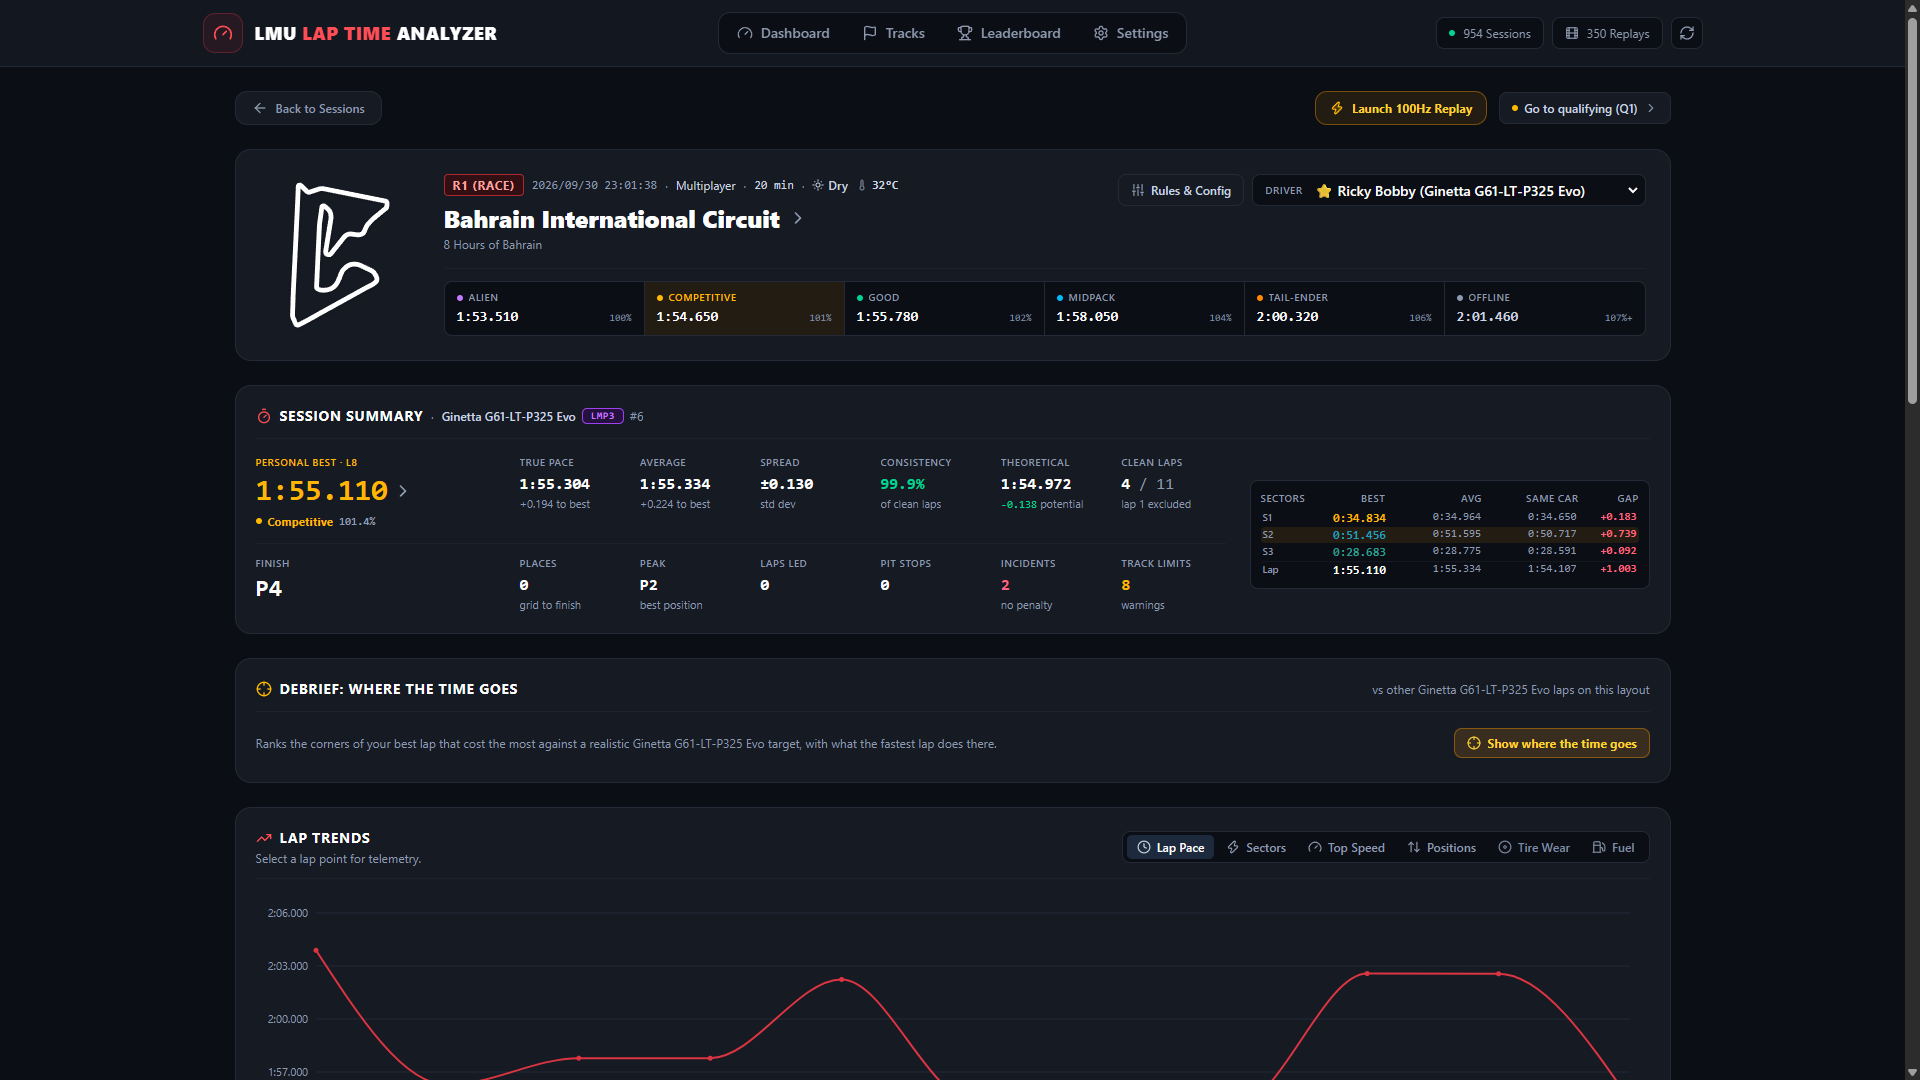
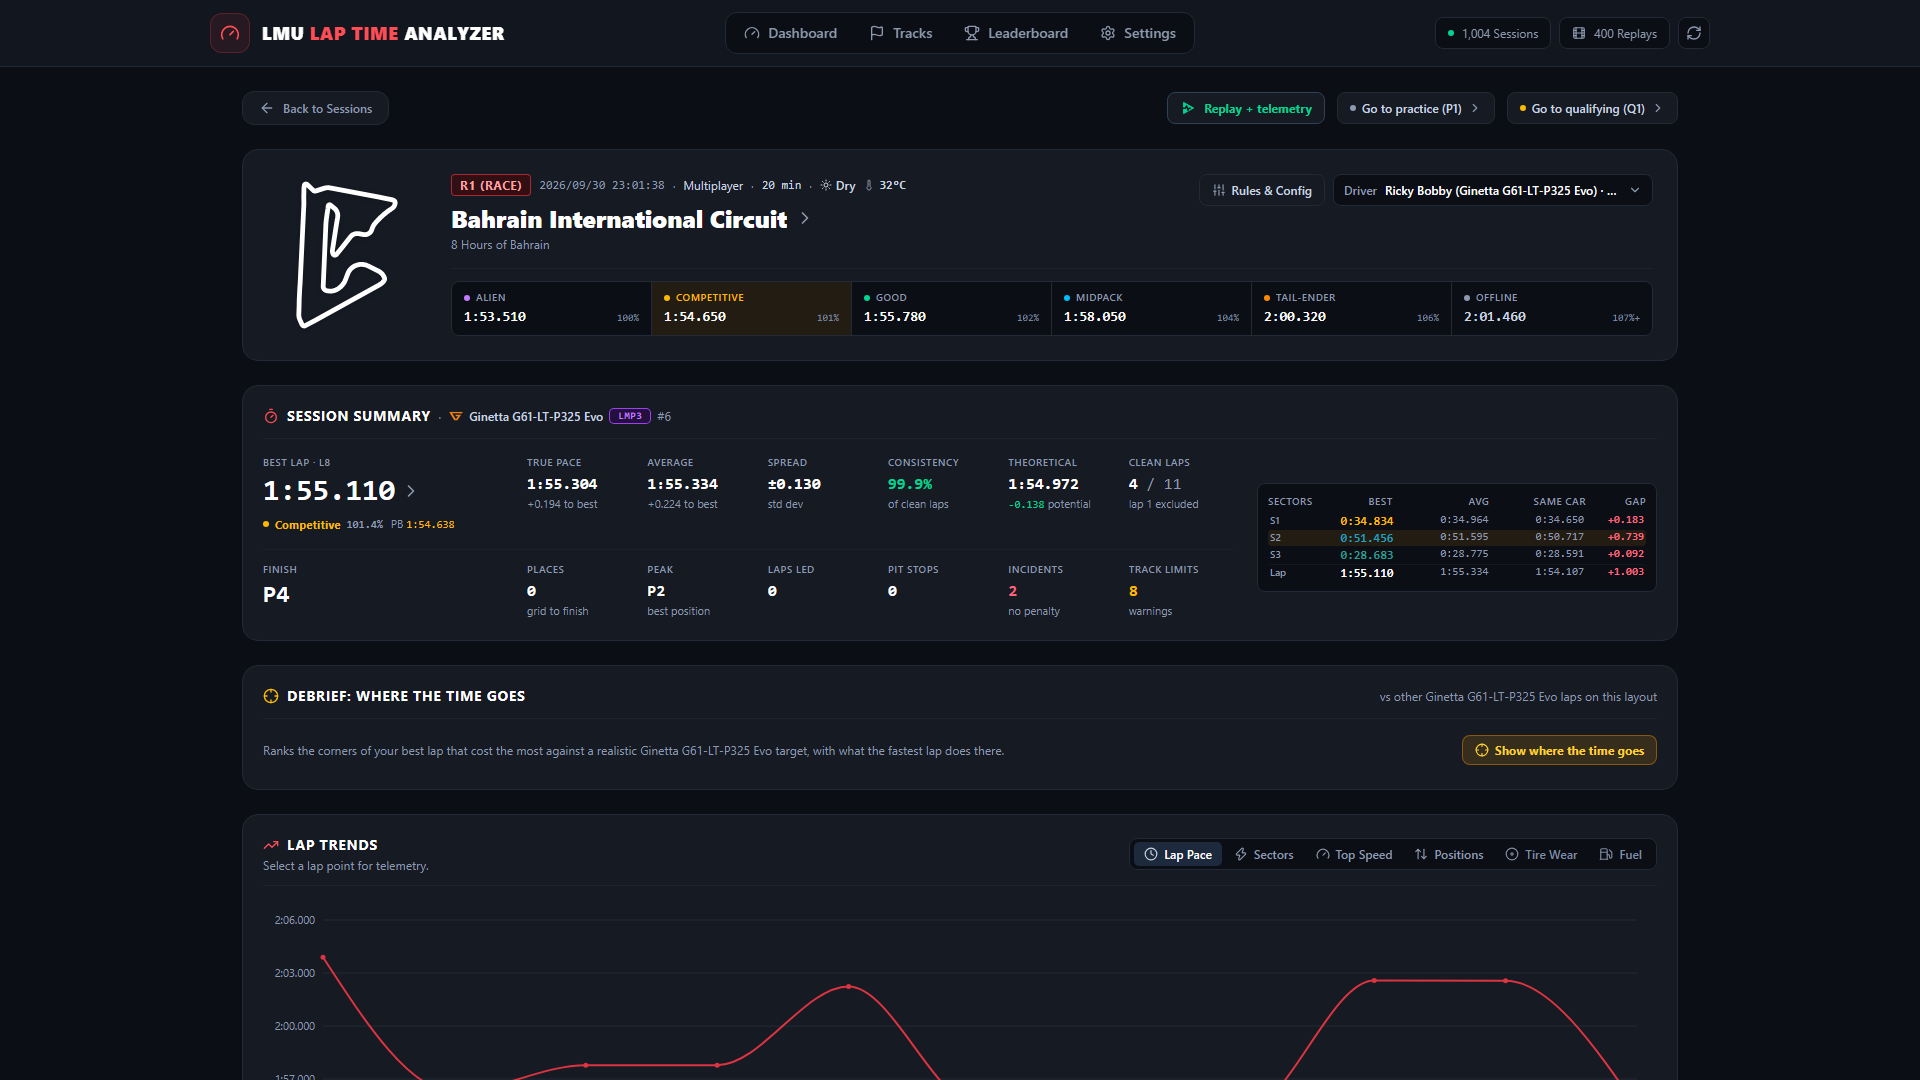
docs(readme): add fullscreen gps map previews and refresh screenshots

diff --git a/tools/captureScreenshots.ts b/tools/captureScreenshots.ts
@@ -36,18 +36,120 @@ interface TargetScreenshot {
   url: string;
   outputPath: string;
   waitMs?: number;
+  evalBeforeNavigate?: string;
   evalBeforeCapture?: string;
 }
 
 const TARGETS: TargetScreenshot[] = [
   {
     name: 'Telemetry Studio (Bahrain LMP3 Competitive Dry Lap)',
-    url: 'http://localhost:5173/?demo=1#/telemetry?replayName=Bahrain%20International%20Circuit%20R1%2012.Vcr&lap=8&driverName=Ricky%20Bobby',
+    url: 'http://localhost:5173/?demo=1#/telemetry?sessionId=2026_09_30_23_37_59-24R1&driverOrdinal=1&lapOrdinal=7&baselineSessionId=2026_09_30_23_37_59-24R1&baselineDriverOrdinal=0&baselineLapOrdinal=10',
     outputPath: path.join(process.cwd(), 'assets', 'telemetry_studio.png'),
-    waitMs: 5000,
+    waitMs: 6000,
     evalBeforeCapture: `
       const toastBtn = document.querySelector('button[aria-label="Dismiss toast"], button[aria-label="Close"]');
       if (toastBtn) toastBtn.click();
+    `,
+  },
+  {
+    name: 'Fullscreen GPS Map (Bahrain 2x & Telemetry Dock)',
+    url: 'http://localhost:5173/?demo=1#/telemetry?sessionId=2026_09_30_23_37_59-24R1&driverOrdinal=1&lapOrdinal=7&baselineSessionId=2026_09_30_23_37_59-24R1&baselineDriverOrdinal=0&baselineLapOrdinal=10',
+    outputPath: path.join(process.cwd(), 'assets', 'fullscreen_gps_map.png'),
+    waitMs: 6000,
+    evalBeforeNavigate: `
+      try {
+        localStorage.setItem('lmu-map-layers-v1', JSON.stringify({
+          road: true, kerb: true, brakeMarkers: true,
+          brakeDistance: true, brakeAds: true, brakeDigi: true,
+          pit: false, centerline: false, runoff: false, otherRoad: false,
+          apron: false, gravel: false, grass: false,
+          sectors: true, turns: true, startFinish: true,
+        }));
+      } catch (e) {}
+    `,
+    evalBeforeCapture: `
+      const toastBtn = document.querySelector('button[aria-label="Dismiss toast"], button[aria-label="Close"]');
+      if (toastBtn) toastBtn.click();
+
+      // Open layers and ensure Braking markers, distance, ads, and digi are active
+      const layersBtn = document.querySelector('button[aria-label="Layers"]');
+      if (layersBtn) layersBtn.click();
+      const labels = Array.from(document.querySelectorAll('label'));
+      const brakeLabel = labels.find(l => l.textContent && l.textContent.includes('Braking markers'));
+      const brakeInput = brakeLabel ? brakeLabel.querySelector('input') : null;
+      if (brakeInput && !brakeInput.checked) brakeInput.click();
+      const adsLabel = labels.find(l => l.textContent && l.textContent.includes('Sponsor ads'));
+      const adsInput = adsLabel ? adsLabel.querySelector('input') : null;
+      if (adsInput && !adsInput.checked) adsInput.click();
+      const digiLabel = labels.find(l => l.textContent && l.textContent.includes('Digi boards'));
+      const digiInput = digiLabel ? digiLabel.querySelector('input') : null;
+      if (digiInput && !digiInput.checked) digiInput.click();
+      if (layersBtn) layersBtn.click();
+
+      // Zoom out 3 steps from default 6.0x -> 4.5 -> 3.0 -> 2.0x
+      const zoomOutBtn = document.querySelector('button[aria-label="Zoom out"]');
+      for (let i = 0; i < 3; i++) {
+        if (zoomOutBtn) zoomOutBtn.click();
+      }
+
+      const fsBtn = document.querySelector('button[aria-label="Full screen map"]');
+      if (fsBtn) fsBtn.click();
+    `,
+  },
+  {
+    name: 'Fullscreen GPS Map (Portimão Layout 0.6x Centered, Pit & Runoff)',
+    url: 'http://localhost:5173/?demo=1#/telemetry?sessionId=2026_09_23_15_49_06-37R1&driverOrdinal=11&lapOrdinal=3&baselineSessionId=2026_09_23_15_49_06-37R1&baselineDriverOrdinal=7&baselineLapOrdinal=7',
+    outputPath: path.join(process.cwd(), 'assets', 'fullscreen_gps_map_portimao.png'),
+    waitMs: 6000,
+    evalBeforeNavigate: `
+      try {
+        localStorage.setItem('lmu-map-layers-v1', JSON.stringify({
+          road: true, kerb: true, brakeMarkers: true,
+          brakeDistance: true, brakeAds: true, brakeDigi: true,
+          pit: true, centerline: false, runoff: true, otherRoad: true,
+          apron: true, gravel: true, grass: true,
+          sectors: true, turns: true, startFinish: true,
+        }));
+      } catch (e) {}
+    `,
+    evalBeforeCapture: `
+      const toastBtn = document.querySelector('button[aria-label="Dismiss toast"], button[aria-label="Close"]');
+      if (toastBtn) toastBtn.click();
+
+      // Open layers and activate Pit lane, Runoff, and Brake markers (ads + digi + distance)
+      const layersBtn = document.querySelector('button[aria-label="Layers"]');
+      if (layersBtn) layersBtn.click();
+      const labels = Array.from(document.querySelectorAll('label'));
+      const pitLabel = labels.find(l => l.textContent && l.textContent.includes('Pit lane'));
+      const pitInput = pitLabel ? pitLabel.querySelector('input') : null;
+      if (pitInput && !pitInput.checked) pitInput.click();
+      const runoffLabel = labels.find(l => l.textContent && l.textContent.includes('Runoff and other roads'));
+      const runoffInput = runoffLabel ? runoffLabel.querySelector('input') : null;
+      if (runoffInput && !runoffInput.checked) runoffInput.click();
+      const brakeLabel = labels.find(l => l.textContent && l.textContent.includes('Braking markers'));
+      const brakeInput = brakeLabel ? brakeLabel.querySelector('input') : null;
+      if (brakeInput && !brakeInput.checked) brakeInput.click();
+      const adsLabel = labels.find(l => l.textContent && l.textContent.includes('Sponsor ads'));
+      const adsInput = adsLabel ? adsLabel.querySelector('input') : null;
+      if (adsInput && !adsInput.checked) adsInput.click();
+      const digiLabel = labels.find(l => l.textContent && l.textContent.includes('Digi boards'));
+      const digiInput = digiLabel ? digiLabel.querySelector('input') : null;
+      if (digiInput && !digiInput.checked) digiInput.click();
+      if (layersBtn) layersBtn.click();
+
+      // Disable follow-car so map un-locks and centers on circuit
+      const followBtn = document.querySelector('button[aria-label="Follow car"]');
+      if (followBtn && followBtn.getAttribute('aria-pressed') === 'true') followBtn.click();
+
+      // Zoom out exactly 8 steps (6.0 -> 4.5 -> 3.0 -> 2.0 -> 1.0 -> 0.9 -> 0.8 -> 0.7 -> 0.6x)
+      const zoomOutBtn = document.querySelector('button[aria-label="Zoom out"]');
+      for (let i = 0; i < 8; i++) {
+        if (zoomOutBtn) zoomOutBtn.click();
+      }
+
+      // Expand to fullscreen
+      const fsBtn = document.querySelector('button[aria-label="Full screen map"]');
+      if (fsBtn) fsBtn.click();
     `,
   },
   {
@@ -199,12 +301,20 @@ async function captureScreenshots(): Promise<void> {
         mobile: false,
       });
 
+      if (target.evalBeforeNavigate) {
+        await pageSend('Page.addScriptToEvaluateOnNewDocument', { source: target.evalBeforeNavigate });
+      } else {
+        await pageSend('Page.addScriptToEvaluateOnNewDocument', {
+          source: `try { localStorage.removeItem('lmu-map-layers-v1'); } catch (e) {}`,
+        });
+      }
+
       await pageSend('Page.navigate', { url: target.url });
       await sleep(target.waitMs ?? 4000);
 
       if (target.evalBeforeCapture) {
         await pageSend('Runtime.evaluate', { expression: target.evalBeforeCapture });
-        await sleep(500);
+        await sleep(1000);
       }
 
       const shot = await pageSend<{ data: string }>('Page.captureScreenshot', { format: 'png' });

diff --git a/README.md b/README.md
@@ -19,8 +19,13 @@ Telemetry analytics and lap comparison for **Le Mans Ultimate (LMU)**. It decode
 ### 🗺 Replay & Telemetry Studio
 - **100 Hz columnar DuckDB telemetry**: Ingests native telemetry at microsecond precision, smoothly interpolated across the start/finish timing loop.
 - **2D track map**: Recorded trajectories with color-coded speed, pedal zones and a live telemetry cursor. Bundled SVGs cover 32 layouts; calibrated road boundaries and physical profiles require an optional local data package.
+- **Fullscreen GPS map**: Follow-car camera with minimap HUD overlay, dynamic friction circle, sector lines, brake distance boards, and a docked live telemetry playback strip.
 - **Synchronized multi-channel traces**: Speed, lap delta, throttle & brake (with ABS/TC events), stepped gear changes, steering angle with real-time understeer/oversteer/scrub balance indicators, G-forces, dampers, tire temperatures & pressures, and Hypercar hybrid energy (SoC, Virtual Energy, Regen).
 - **Three-phase corner breakdown**: Micro-splits deconstructing every turn into Entry (braking point, trail brake decay), Rotation (apex minimum speed, yaw rate), and Exit (throttle pick-up timing, traction).
+
+![Fullscreen GPS Map - Follow-Car & Minimap HUD](assets/fullscreen_gps_map.png)
+
+![Fullscreen GPS Map - Portimão Circuit Layout, Pit Lane & Runoff](assets/fullscreen_gps_map_portimao.png)
 
 ### 🎬 Every Driver's Telemetry, from the Replays
 - **Reverse-engineered replay format**: LMU's binary `.Vcr` replays (`gMb1.002f`) are decoded to extract the trajectory and telemetry of every car in the session: position, speed, throttle and brake (with ABS/TC), steering, gear and brake temperatures.
